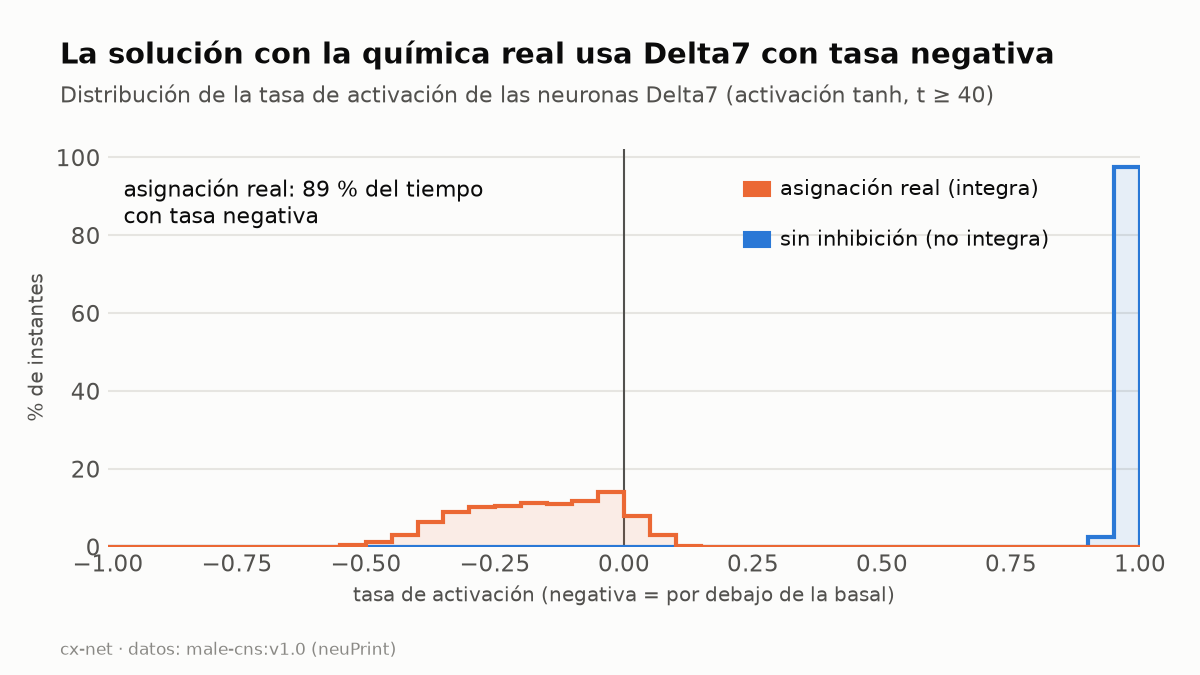
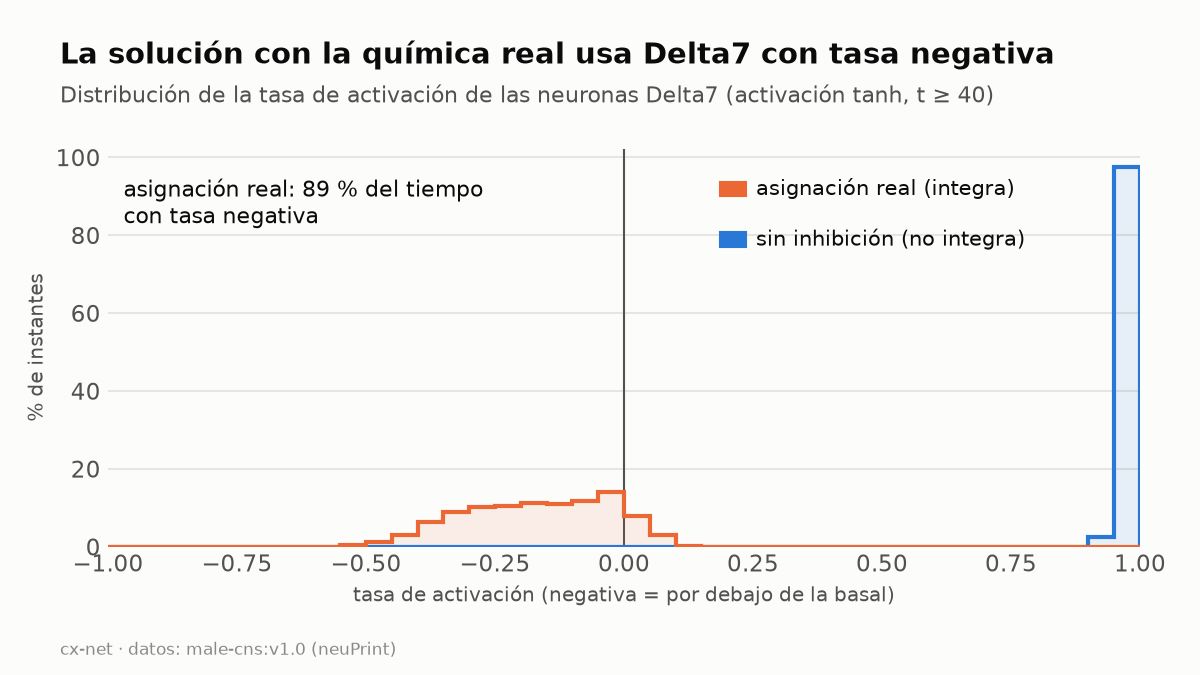
Agrega version en ingles: figuras, resumen y generador bilingue
make_figures.py genera las 5 figuras en espanol (docs/figures) y en ingles
(docs/figures/en) desde el mismo codigo; docs/summary-en.md resume el informe;
README enlaza ambos.

Changed region(s): [[0.5858, 0.2489, 0.8633, 0.3111], [0.5858, 0.3422, 0.8942, 0.3733]]

diff --git a/src/cx_net/make_figures.py b/src/cx_net/make_figures.py
@@ -1,6 +1,8 @@
 """
-Figuras del informe (PNG, 1200x675, tema claro). Lee SOLO de `results/` (versionado),
-así que se pueden regenerar sin `data/interim/`. Salida: docs/figures/fig{1..5}.png.
+Figuras del informe (PNG, 1200x675, tema claro), en español e inglés. Lee SOLO de `results/`
+(versionado), así que se pueden regenerar sin `data/interim/`.
+Salida: docs/figures/fig{1..5}.png (es) y docs/figures/en/fig{1..5}.png (en).
+Uso: python -m src.cx_net.make_figures [--lang es|en|all]
 
 Convenciones (guía de visualización del proyecto): un color por función;
 azul = serie principal, naranja = "asignación real de neurotransmisor" en TODAS las
@@ -9,6 +11,7 @@ tintas de texto (nunca en el color de la serie). Paleta (huecos 1-3) validada co
 validate_palette.js: todos los pares pasan; el aguamarina queda por debajo de 3:1 de
 contraste, por eso se usa solo con etiquetas visibles.
 """
+import argparse
 import json
 import os
 
@@ -18,25 +21,79 @@ matplotlib.use("Agg")
 import matplotlib.pyplot as plt
 import numpy as np
 import pandas as pd
+from matplotlib.lines import Line2D
 
 ROOT = os.path.join(os.path.dirname(__file__), "..", "..")
 RES = os.path.join(ROOT, "results")
-OUT = os.path.join(ROOT, "docs", "figures")
 
 SURFACE, INK, INK2, MUTED, GRID = "#fcfcfb", "#0b0b0b", "#52514e", "#8a8985", "#e6e5e1"
 BLUE, ORANGE, AQUA, GRAY = "#2a78d6", "#eb6834", "#1baf7a", "#b8b7b2"
 MEMORY = 0.466  # held-out de "recordar theta0 sin integrar"
+
+TEXT = {
+    "es": {
+        "source": "cx-net · datos: male-cns:v1.0 (neuPrint)",
+        "pct": "{v:.0f} %", "pct_axis": ["0 %", "25 %", "50 %", "75 %", "100 %"],
+        "f1_title": "Un decodificador inerte supera a todos los modelos entrenados",
+        "f1_sub": "Pérdida held-out de la tarea original, sin pista de fase (menor es mejor)",
+        "f1_const": "Decodificador constante\n(siempre apunta a 0)", "f1_trained": "Modelos entrenados\n(8 semillas)",
+        "f1_random": "Fase aleatoria\n(la «referencia de azar»)", "f1_x": "pérdida held-out (1 − cos del error de rumbo)",
+        "f2_title": "Los dos hemisferios recorren el anillo en sentidos opuestos",
+        "f2_sub": "Fase angular de cada glomérulo (EPG); el radio crece de L1/R1 (dentro) a L8/R8 (fuera)",
+        "f2_L": "Hemisferio izquierdo (L)", "f2_R": "Hemisferio derecho (R)",
+        "f2_note": "Cada hemisferio cubre el anillo\ncompleto en pasos de ≈45°.\n\nLos glomérulos homólogos L y R\nquedan desfasados ≈22°, y L y R\ngiran en sentido contrario\n(un espejo).",
+        "f3_title": "{n} de 64 patrones integran; la asignación real es uno más",
+        "f3_sub": "Pérdida held-out de cada patrón (una corrida por patrón), ordenados de mejor a peor",
+        "f3_mem": "memoria sin integrar (0.466)", "f3_real": "asignación real: puesto {r} de 64 (p = {r}/64 = {p:.2f})",
+        "f3_yes": "integra", "f3_no": "no integra", "f3_leg_real": "asignación real",
+        "f3_x": "patrón (ordenado por pérdida)", "f3_y": "pérdida held-out",
+        "f4_title": "Ningún signo por tipo basta; PEN_b y Delta7 se asocian más",
+        "f4_sub": "Porcentaje de patrones que integran según el signo asignado a cada tipo (32 patrones por punto)",
+        "f4_exc": "tipo excitador", "f4_inh": "tipo inhibidor",
+        "f5_title": "La solución con la química real usa Delta7 con tasa negativa",
+        "f5_sub": "Distribución de la tasa de activación de las neuronas Delta7 (activación tanh, t ≥ 40)",
+        "f5_x": "tasa de activación (negativa = por debajo de la basal)", "f5_y": "% de instantes",
+        "f5_ann": "asignación real: {v:.0f} % del tiempo\ncon tasa negativa",
+        "f5_real": "asignación real (integra)", "f5_none": "sin inhibición (no integra)",
+    },
+    "en": {
+        "source": "cx-net · data: male-cns:v1.0 (neuPrint)",
+        "pct": "{v:.0f}%", "pct_axis": ["0%", "25%", "50%", "75%", "100%"],
+        "f1_title": "An inert decoder beats every trained model",
+        "f1_sub": "Held-out loss on the original task, no phase cue (lower is better)",
+        "f1_const": "Constant decoder\n(always points to 0)", "f1_trained": "Trained models\n(8 seeds)",
+        "f1_random": "Random phase\n(the “chance” baseline)", "f1_x": "held-out loss (1 − cos of heading error)",
+        "f2_title": "The two hemispheres traverse the ring in opposite directions",
+        "f2_sub": "Angular phase of each glomerulus (EPG); radius grows from L1/R1 (inside) to L8/R8 (outside)",
+        "f2_L": "Left hemisphere (L)", "f2_R": "Right hemisphere (R)",
+        "f2_note": "Each hemisphere covers the full\nring in ≈45° steps.\n\nHomologous L and R glomeruli are\noffset by ≈22°, and L and R turn\nin opposite directions\n(a mirror image).",
+        "f3_title": "{n} of 64 patterns integrate; the real assignment is just one",
+        "f3_sub": "Held-out loss of each pattern (one run per pattern), sorted best to worst",
+        "f3_mem": "memory without integrating (0.466)", "f3_real": "real assignment: rank {r} of 64 (p = {r}/64 = {p:.2f})",
+        "f3_yes": "integrates", "f3_no": "does not integrate", "f3_leg_real": "real assignment",
+        "f3_x": "pattern (sorted by loss)", "f3_y": "held-out loss",
+        "f4_title": "No per-type sign is enough; PEN_b and Delta7 stand out",
+        "f4_sub": "Percentage of patterns that integrate, by the sign assigned to each type (32 patterns per point)",
+        "f4_exc": "excitatory type", "f4_inh": "inhibitory type",
+        "f5_title": "The real-chemistry solution runs Delta7 at negative rates",
+        "f5_sub": "Distribution of Delta7 activation rate (tanh activation, t ≥ 40)",
+        "f5_x": "activation rate (negative = below baseline)", "f5_y": "% of time steps",
+        "f5_ann": "real assignment: {v:.0f}% of the time\nat a negative rate",
+        "f5_real": "real assignment (integrates)", "f5_none": "no inhibition (does not integrate)",
+    },
+}
+L = TEXT["es"]  # idioma activo (se fija en main)
 
 plt.rcParams.update({"font.family": "DejaVu Sans", "figure.facecolor": SURFACE, "axes.facecolor": SURFACE,
                      "savefig.facecolor": SURFACE, "text.color": INK, "axes.labelcolor": INK2,
                      "xtick.color": INK2, "ytick.color": INK2, "axes.edgecolor": GRID, "font.size": 11})
 
 
-def frame(title, subtitle, source="cx-net · datos: male-cns:v1.0 (neuPrint)"):
+def frame(title, subtitle):
     fig = plt.figure(figsize=(8, 4.5), dpi=150)
     fig.text(0.05, 0.94, title, fontsize=14, fontweight="bold", color=INK, va="top")
     fig.text(0.05, 0.875, subtitle, fontsize=10.5, color=INK2, va="top")
-    fig.text(0.05, 0.03, source, fontsize=8, color=MUTED)
+    fig.text(0.05, 0.03, L["source"], fontsize=8, color=MUTED)
     return fig
 
 
@@ -56,13 +113,10 @@ def dot(ax, x, y, color, r=7):
 def fig1():
     runs = pd.read_csv(os.path.join(RES, "runs_summary.csv"))
     tr = runs[runs.label.str.match(r"^signreg05_seed\d$")].held_out_loss.to_numpy()
-    fig = frame("Un decodificador inerte supera a todos los modelos entrenados",
-                "Pérdida held-out de la tarea original, sin pista de fase (menor es mejor)")
+    fig = frame(L["f1_title"], L["f1_sub"])
     ax = fig.add_axes([0.30, 0.16, 0.65, 0.62])
     clean(ax)
-    rows = [("Decodificador constante\n(siempre apunta a 0)", [0.179], INK2),
-            ("Modelos entrenados\n(8 semillas)", tr, BLUE),
-            ("Fase aleatoria\n(la «referencia de azar»)", [0.98], GRAY)]
+    rows = [(L["f1_const"], [0.179], INK2), (L["f1_trained"], tr, BLUE), (L["f1_random"], [0.98], GRAY)]
     for i, (lab, xs, c) in enumerate(rows):
         y = 2 - i
         for j, x in enumerate(sorted(xs)):
@@ -75,15 +129,14 @@ def fig1():
     ax.set_ylim(-0.6, 2.6)
     ax.set_yticks([])
     ax.set_xticks([0, 0.25, 0.5, 0.75, 1.0])
-    ax.set_xlabel("pérdida held-out (1 − cos del error de rumbo)", fontsize=9.5)
+    ax.set_xlabel(L["f1_x"], fontsize=9.5)
     return fig
 
 
 # ---------------------------------------------------------------- fig 2
 def fig2():
     g = pd.read_csv(os.path.join(RES, "epg_glomerulus_angles.csv"))
-    fig = frame("Los dos hemisferios recorren el anillo en sentidos opuestos",
-                "Fase angular de cada glomérulo (EPG); el radio crece de L1/R1 (dentro) a L8/R8 (fuera)")
+    fig = frame(L["f2_title"], L["f2_sub"])
     ax = fig.add_axes([0.08, 0.11, 0.50, 0.63], projection="polar")
     ax.set_facecolor(SURFACE)
     ax.set_ylim(0, 9.2)
@@ -100,13 +153,11 @@ def fig2():
         for a, r in zip(ang, rad):
             ax.plot(a, r, "o", color=c, markersize=8, markeredgecolor=SURFACE, markeredgewidth=2, zorder=3)
         ax.text(ang[-1], rad[-1] + 0.95, f"{h}8", color=INK, fontsize=9, ha="center", va="center")
-    # leyenda (2 series) con la marca de color al lado del texto
-    for i, (lab, c) in enumerate((("Hemisferio izquierdo (L)", BLUE), ("Hemisferio derecho (R)", ORANGE))):
+    for i, (lab, c) in enumerate(((L["f2_L"], BLUE), (L["f2_R"], ORANGE))):
         y = 0.62 - i * 0.09
         fig.patches.append(plt.Rectangle((0.63, y - 0.012), 0.025, 0.024, transform=fig.transFigure, color=c))
         fig.text(0.67, y, lab, fontsize=10.5, color=INK, va="center")
-    fig.text(0.63, 0.38, "Cada hemisferio cubre el anillo\ncompleto en pasos de ≈45°.\n\nLos glomérulos homólogos L y R\nquedan desfasados ≈22°, y L y R\ngiran en sentido contrario\n(un espejo).",
-             fontsize=10, color=INK2, va="top", linespacing=1.4)
+    fig.text(0.63, 0.38, L["f2_note"], fontsize=10, color=INK2, va="top", linespacing=1.4)
     return fig
 
 
@@ -118,25 +169,24 @@ def fig3():
     integra = np.array([x["integra"] for x in t])
     real_rank = [i for i, x in enumerate(t) if x["mask"] == 1][0] + 1
     n_int = int(integra.sum())
-    fig = frame(f"{n_int} de 64 patrones integran; la asignación real es uno más",
-                "Pérdida held-out de cada patrón (una corrida por patrón), ordenados de mejor a peor")
+    fig = frame(L["f3_title"].format(n=n_int), L["f3_sub"])
     ax = fig.add_axes([0.09, 0.16, 0.86, 0.62])
     clean(ax, "y")
     ax.axhline(MEMORY, color=INK2, linewidth=1, zorder=1)
-    ax.text(0.8, MEMORY + 0.03, "memoria sin integrar (0.466)", ha="left", fontsize=9.5, color=INK2)
+    ax.text(0.8, MEMORY + 0.03, L["f3_mem"], ha="left", fontsize=9.5, color=INK2)
     xs = np.arange(1, 65)
-    ax.scatter(xs[integra], ho[integra], s=46, color=BLUE, edgecolor=SURFACE, linewidth=1.5, zorder=3, label="integra")
-    ax.scatter(xs[~integra], ho[~integra], s=46, color=GRAY, edgecolor=SURFACE, linewidth=1.5, zorder=3, label="no integra")
+    ax.scatter(xs[integra], ho[integra], s=46, color=BLUE, edgecolor=SURFACE, linewidth=1.5, zorder=3, label=L["f3_yes"])
+    ax.scatter(xs[~integra], ho[~integra], s=46, color=GRAY, edgecolor=SURFACE, linewidth=1.5, zorder=3, label=L["f3_no"])
     ax.scatter([real_rank], [ho[real_rank - 1]], s=120, color=ORANGE, edgecolor=SURFACE, linewidth=2, zorder=4,
-               label="asignación real")
-    ax.annotate(f"asignación real: puesto {real_rank} de 64 (p = {real_rank}/64 = {real_rank/64:.2f})",
-                (real_rank, ho[real_rank - 1]), xytext=(real_rank + 4, 0.03), fontsize=10, color=INK, va="center",
+               label=L["f3_leg_real"])
+    ax.annotate(L["f3_real"].format(r=real_rank, p=real_rank / 64), (real_rank, ho[real_rank - 1]),
+                xytext=(real_rank + 4, 0.03), fontsize=10, color=INK, va="center",
                 arrowprops=dict(arrowstyle="-", color=MUTED, linewidth=1, shrinkA=2, shrinkB=6))
     ax.set_xlim(0, 65)
     ax.set_ylim(0, 0.78)
     ax.set_xticks([1, 16, 32, 48, 64])
-    ax.set_xlabel("patrón (ordenado por pérdida)", fontsize=9.5)
-    ax.set_ylabel("pérdida held-out", fontsize=9.5)
+    ax.set_xlabel(L["f3_x"], fontsize=9.5)
+    ax.set_ylabel(L["f3_y"], fontsize=9.5)
     ax.legend(loc="upper left", frameon=False, fontsize=10, handletextpad=0.3, labelcolor=INK, bbox_to_anchor=(0.0, 1.02))
     return fig
 
@@ -152,8 +202,7 @@ def fig4():
         exc.append(100 * np.mean(e))
         inh.append(100 * np.mean(h))
     order = np.argsort(np.array(inh) - np.array(exc))  # menor diferencia abajo
-    fig = frame("Ningún signo por tipo basta; PEN_b y Delta7 se asocian más",
-                "Porcentaje de patrones que integran según el signo asignado a cada tipo (32 patrones por punto)")
+    fig = frame(L["f4_title"], L["f4_sub"])
     ax = fig.add_axes([0.16, 0.19, 0.78, 0.59])
     clean(ax)
     for k, i in enumerate(order):
@@ -165,17 +214,16 @@ def fig4():
     ax.set_xlim(0, 100)
     ax.set_ylim(-0.6, 5.6)
     ax.set_xticks([0, 25, 50, 75, 100])
-    ax.set_xticklabels(["0 %", "25 %", "50 %", "75 %", "100 %"])
+    ax.set_xticklabels(L["pct_axis"])
     top = list(order).index(0)
-    ax.text(exc[0] - 2, top, f"{exc[0]:.0f} %", ha="right", va="center", fontsize=10, color=INK)
-    ax.text(inh[0] + 2, top, f"{inh[0]:.0f} %", ha="left", va="center", fontsize=10, color=INK)
-    from matplotlib.lines import Line2D
-    ax.legend(handles=[Line2D([], [], marker="o", linestyle="", color=BLUE, markersize=8, label="tipo excitador"),
-                       Line2D([], [], marker="o", linestyle="", color=AQUA, markersize=8, label="tipo inhibidor")],
+    ax.text(exc[0] - 2, top, L["pct"].format(v=exc[0]), ha="right", va="center", fontsize=10, color=INK)
+    ax.text(inh[0] + 2, top, L["pct"].format(v=inh[0]), ha="left", va="center", fontsize=10, color=INK)
+    ax.legend(handles=[Line2D([], [], marker="o", linestyle="", color=BLUE, markersize=8, label=L["f4_exc"]),
+                       Line2D([], [], marker="o", linestyle="", color=AQUA, markersize=8, label=L["f4_inh"])],
               loc="lower right", frameon=False, fontsize=10, labelcolor=INK, handletextpad=0.3)
     kb = list(order).index(5)
-    ax.text(exc[5] + 2, kb, f"{exc[5]:.0f} %", ha="left", va="center", fontsize=10, color=INK)
-    ax.text(inh[5] - 2, kb, f"{inh[5]:.0f} %", ha="right", va="center", fontsize=10, color=INK)
+    ax.text(exc[5] + 2, kb, L["pct"].format(v=exc[5]), ha="left", va="center", fontsize=10, color=INK)
+    ax.text(inh[5] - 2, kb, L["pct"].format(v=inh[5]), ha="right", va="center", fontsize=10, color=INK)
     return fig
 
 
@@ -183,12 +231,10 @@ def fig4():
 def fig5():
     r = json.load(open(os.path.join(RES, "rates_by_type.json")))
     bins = np.array(r["bins"])
-    mid = (bins[:-1] + bins[1:]) / 2
-    fig = frame("La solución con la química real usa Delta7 con tasa negativa",
-                "Distribución de la tasa de activación de las neuronas Delta7 (activación tanh, t ≥ 40)")
+    fig = frame(L["f5_title"], L["f5_sub"])
     ax = fig.add_axes([0.09, 0.19, 0.86, 0.59])
     clean(ax, "y")
-    for key, lab, c in (("sin_inhibicion", "sin inhibición (no integra)", BLUE), ("real", "asignación real (integra)", ORANGE)):
+    for key, c in (("sin_inhibicion", BLUE), ("real", ORANGE)):
         d = r["models"][key]["types"]["Delta7"]
         h = np.array(d["hist"], dtype=float)
         h = 100 * h / h.sum()
@@ -197,26 +243,30 @@ def fig5():
     ax.axvline(0, color=INK2, linewidth=1, zorder=1)
     real = r["models"]["real"]["types"]["Delta7"]["frac_positive"]
     ax.set_xlim(-1, 1)
-    ax.set_xlabel("tasa de activación (negativa = por debajo de la basal)", fontsize=9.5)
-    ax.set_ylabel("% de instantes", fontsize=9.5)
-    ax.text(-0.97, ax.get_ylim()[1] * 0.93, f"asignación real: {100*(1-real):.0f} % del tiempo\ncon tasa negativa",
-            fontsize=10.5, color=INK, va="top")
-    for x0, lab, c in ((0.55, "asignación real (integra)", ORANGE), (0.55, "sin inhibición (no integra)", BLUE)):
-        pass
-    for i, (lab, c) in enumerate((("asignación real (integra)", ORANGE), ("sin inhibición (no integra)", BLUE))):
+    ax.set_xlabel(L["f5_x"], fontsize=9.5)
+    ax.set_ylabel(L["f5_y"], fontsize=9.5)
+    ax.text(-0.97, ax.get_ylim()[1] * 0.93, L["f5_ann"].format(v=100 * (1 - real)), fontsize=10.5, color=INK, va="top")
+    for i, (lab, c) in enumerate(((L["f5_real"], ORANGE), (L["f5_none"], BLUE))):
         y = 0.72 - i * 0.075
-        fig.patches.append(plt.Rectangle((0.62, y - 0.011), 0.022, 0.022, transform=fig.transFigure, color=c))
-        fig.text(0.65, y, lab, fontsize=10, color=INK, va="center")
+        fig.patches.append(plt.Rectangle((0.60, y - 0.011), 0.022, 0.022, transform=fig.transFigure, color=c))
+        fig.text(0.63, y, lab, fontsize=10, color=INK, va="center")
     return fig
 
 
 def main():
-    os.makedirs(OUT, exist_ok=True)
-    for i, f in enumerate((fig1, fig2, fig3, fig4, fig5), 1):
-        fig = f()
-        fig.savefig(os.path.join(OUT, f"fig{i}.png"))
-        plt.close(fig)
-        print(f"fig{i}.png")
+    global L
+    ap = argparse.ArgumentParser()
+    ap.add_argument("--lang", default="all", choices=["es", "en", "all"])
+    args = ap.parse_args()
+    for lang in (["es", "en"] if args.lang == "all" else [args.lang]):
+        L = TEXT[lang]
+        out = os.path.join(ROOT, "docs", "figures", "" if lang == "es" else "en")
+        os.makedirs(out, exist_ok=True)
+        for i, f in enumerate((fig1, fig2, fig3, fig4, fig5), 1):
+            fig = f()
+            fig.savefig(os.path.join(out, f"fig{i}.png"))
+            plt.close(fig)
+        print(f"{lang}: 5 figuras en {os.path.normpath(out)}")
 
 
 if __name__ == "__main__":

diff --git a/docs/summary-en.md b/docs/summary-en.md
@@ -1,0 +1,72 @@
+# CX-Net: summary in English
+
+*Exploratory methodological note. The full report (in Spanish) is
+[`preprint-discussion.md`](preprint-discussion.md); the day-by-day record, including mistakes and
+their corrections, is [`lab-notebook.md`](lab-notebook.md); an internal critical review is
+[`expert-review.md`](expert-review.md).*
+
+## Question
+
+If a recurrent network is constrained only by the real synaptic **topology** of the core
+head-direction circuit of *Drosophila* (152 neurons, 9,160 edges: EPG, EPGt, PEN_a, PEN_b, PEG,
+Delta7; male CNS connectome `male-cns:v1.0`), with every weight magnitude fixed to the synapse
+count and the **sign** as the only free per-edge parameter, does gradient descent on a
+heading-integration task recover the annotated neurotransmitter of each neuron (H1)?
+
+## Answer
+
+**We found no evidence that it does, and the design could not have found it.** The value of the
+work is five methodological findings, each of which invalidated an earlier version of the
+experiment. Throughout, "integrates" means held-out loss < 0.466 (the loss of remembering the
+initial phase without integrating) and a slope > 0.5 between decoded and true heading change.
+
+1. **The original task was trivially solvable.** A constant decoder scored 0.18 held-out loss;
+   the trained models scored 0.58–0.72. The "chance" baseline (≈0.85) used at first was a random
+   phase, not a trivial solution ([figure 1](figures/en/fig1.png)).
+2. **The task had no phase anchor** (it asked for absolute heading with no cue), so even a
+   perfect integrator scored ≈1.0. Adding a random initial phase with a brief cue fixed this.
+3. **The angular map of the ring was wrong.** Measured from synapse coordinates in neuPrint
+   (261,546 synapses), EPG glomeruli of the two hemispheres traverse the ring in *opposite*
+   directions, offset by ≈22° ([figure 2](figures/en/fig2.png)). This matches the known anatomy;
+   none of the earlier assumed mappings reflected it.
+4. **With the original model, even the real signs do not integrate** in any dynamical regime
+   explored (588 evaluations). Adding trainable *per-type* gains (≈43 shared parameters, never
+   per-edge) gives solutions that integrate, but **the real neurotransmitter assignment is not
+   special**: 26 of the 64 per-type sign patterns integrate and the real one ranks 22nd
+   (exact rank p = 22/64 = 0.34; [figure 3](figures/en/fig3.png)). The solutions rely on
+   signed rates, i.e. deviations from a zero baseline, so an "inhibitory" type below baseline
+   ends up exciting its targets ([figure 5](figures/en/fig5.png)), which makes the sign of a
+   weight poorly identifiable.
+5. **The annotated neurotransmitter is an exact function of cell type** (Delta7 = glutamate,
+   the other five types = acetylcholine). "Recovering the neurotransmitter" therefore reduces
+   to recovering one already-known bit (*Delta7 inhibits*), and per-neuron power calculations
+   do not apply.
+
+A generic sign learner, trained from a neutral initialisation, does not find the integrating
+solution either (four pilots, held-out 0.458–0.561).
+
+## What is and is not claimed
+
+- Claimed: the five pitfalls above, with numbers traceable to [`results/`](../results); a
+  checklist to run before interpreting sign agreement in connectome-constrained models.
+- **Not** claimed: anything about the fly's actual neurotransmitter chemistry. Runs are
+  exploratory (one run per configuration in the enumeration), and several hyperparameters were
+  chosen with the help of the real assignment (which, if anything, favours it).
+- Retracted along the way: the "chance" baseline, a per-neuron power control, a first
+  real-versus-shuffled comparison, an "interleaved" angular map, and a "functional sufficiency"
+  reading. The table is in section 9 of the report.
+
+## Open items
+
+Replicating each pattern with several seeds; characterising the bump and comparing it with
+hand-tuned connectome ring-attractor models; validating the phase map on hemibrain; a search for a
+dynamical regime that integrates with non-negative rates (a first sigmoid attempt was
+inconclusive); review by someone from the field.
+
+## Data, license and citation
+
+Code: MIT. The connectome is licensed CC-BY 4.0 and is not redistributed here. Please cite Berg
+et al. (2026), *Sexual dimorphism in the complete Drosophila male central nervous system
+connectome*, Cell (bioRxiv 10.1101/2025.10.09.680999), and Eckstein et al. (2024) for the
+neurotransmitter predictions. Figures: [`figures/en/`](figures/en/). Interactive explorer of the
+64 patterns: see the project page.

diff --git a/README.md b/README.md
@@ -28,7 +28,9 @@ Ver hoja de ruta más abajo.
 
 ## Figuras
 
-Se regeneran con `python -m src.cx_net.make_figures` (leen solo de `results/`).
+Se regeneran con `python -m src.cx_net.make_figures [--lang es|en|all]` (leen solo de `results/`).
+Versiones en inglés en [`docs/figures/en/`](docs/figures/en/); resumen en inglés en
+[`docs/summary-en.md`](docs/summary-en.md) (English summary).
 
 ![Un decodificador inerte supera a todos los modelos entrenados](docs/figures/fig1.png)
 ![Los dos hemisferios recorren el anillo en sentidos opuestos](docs/figures/fig2.png)
